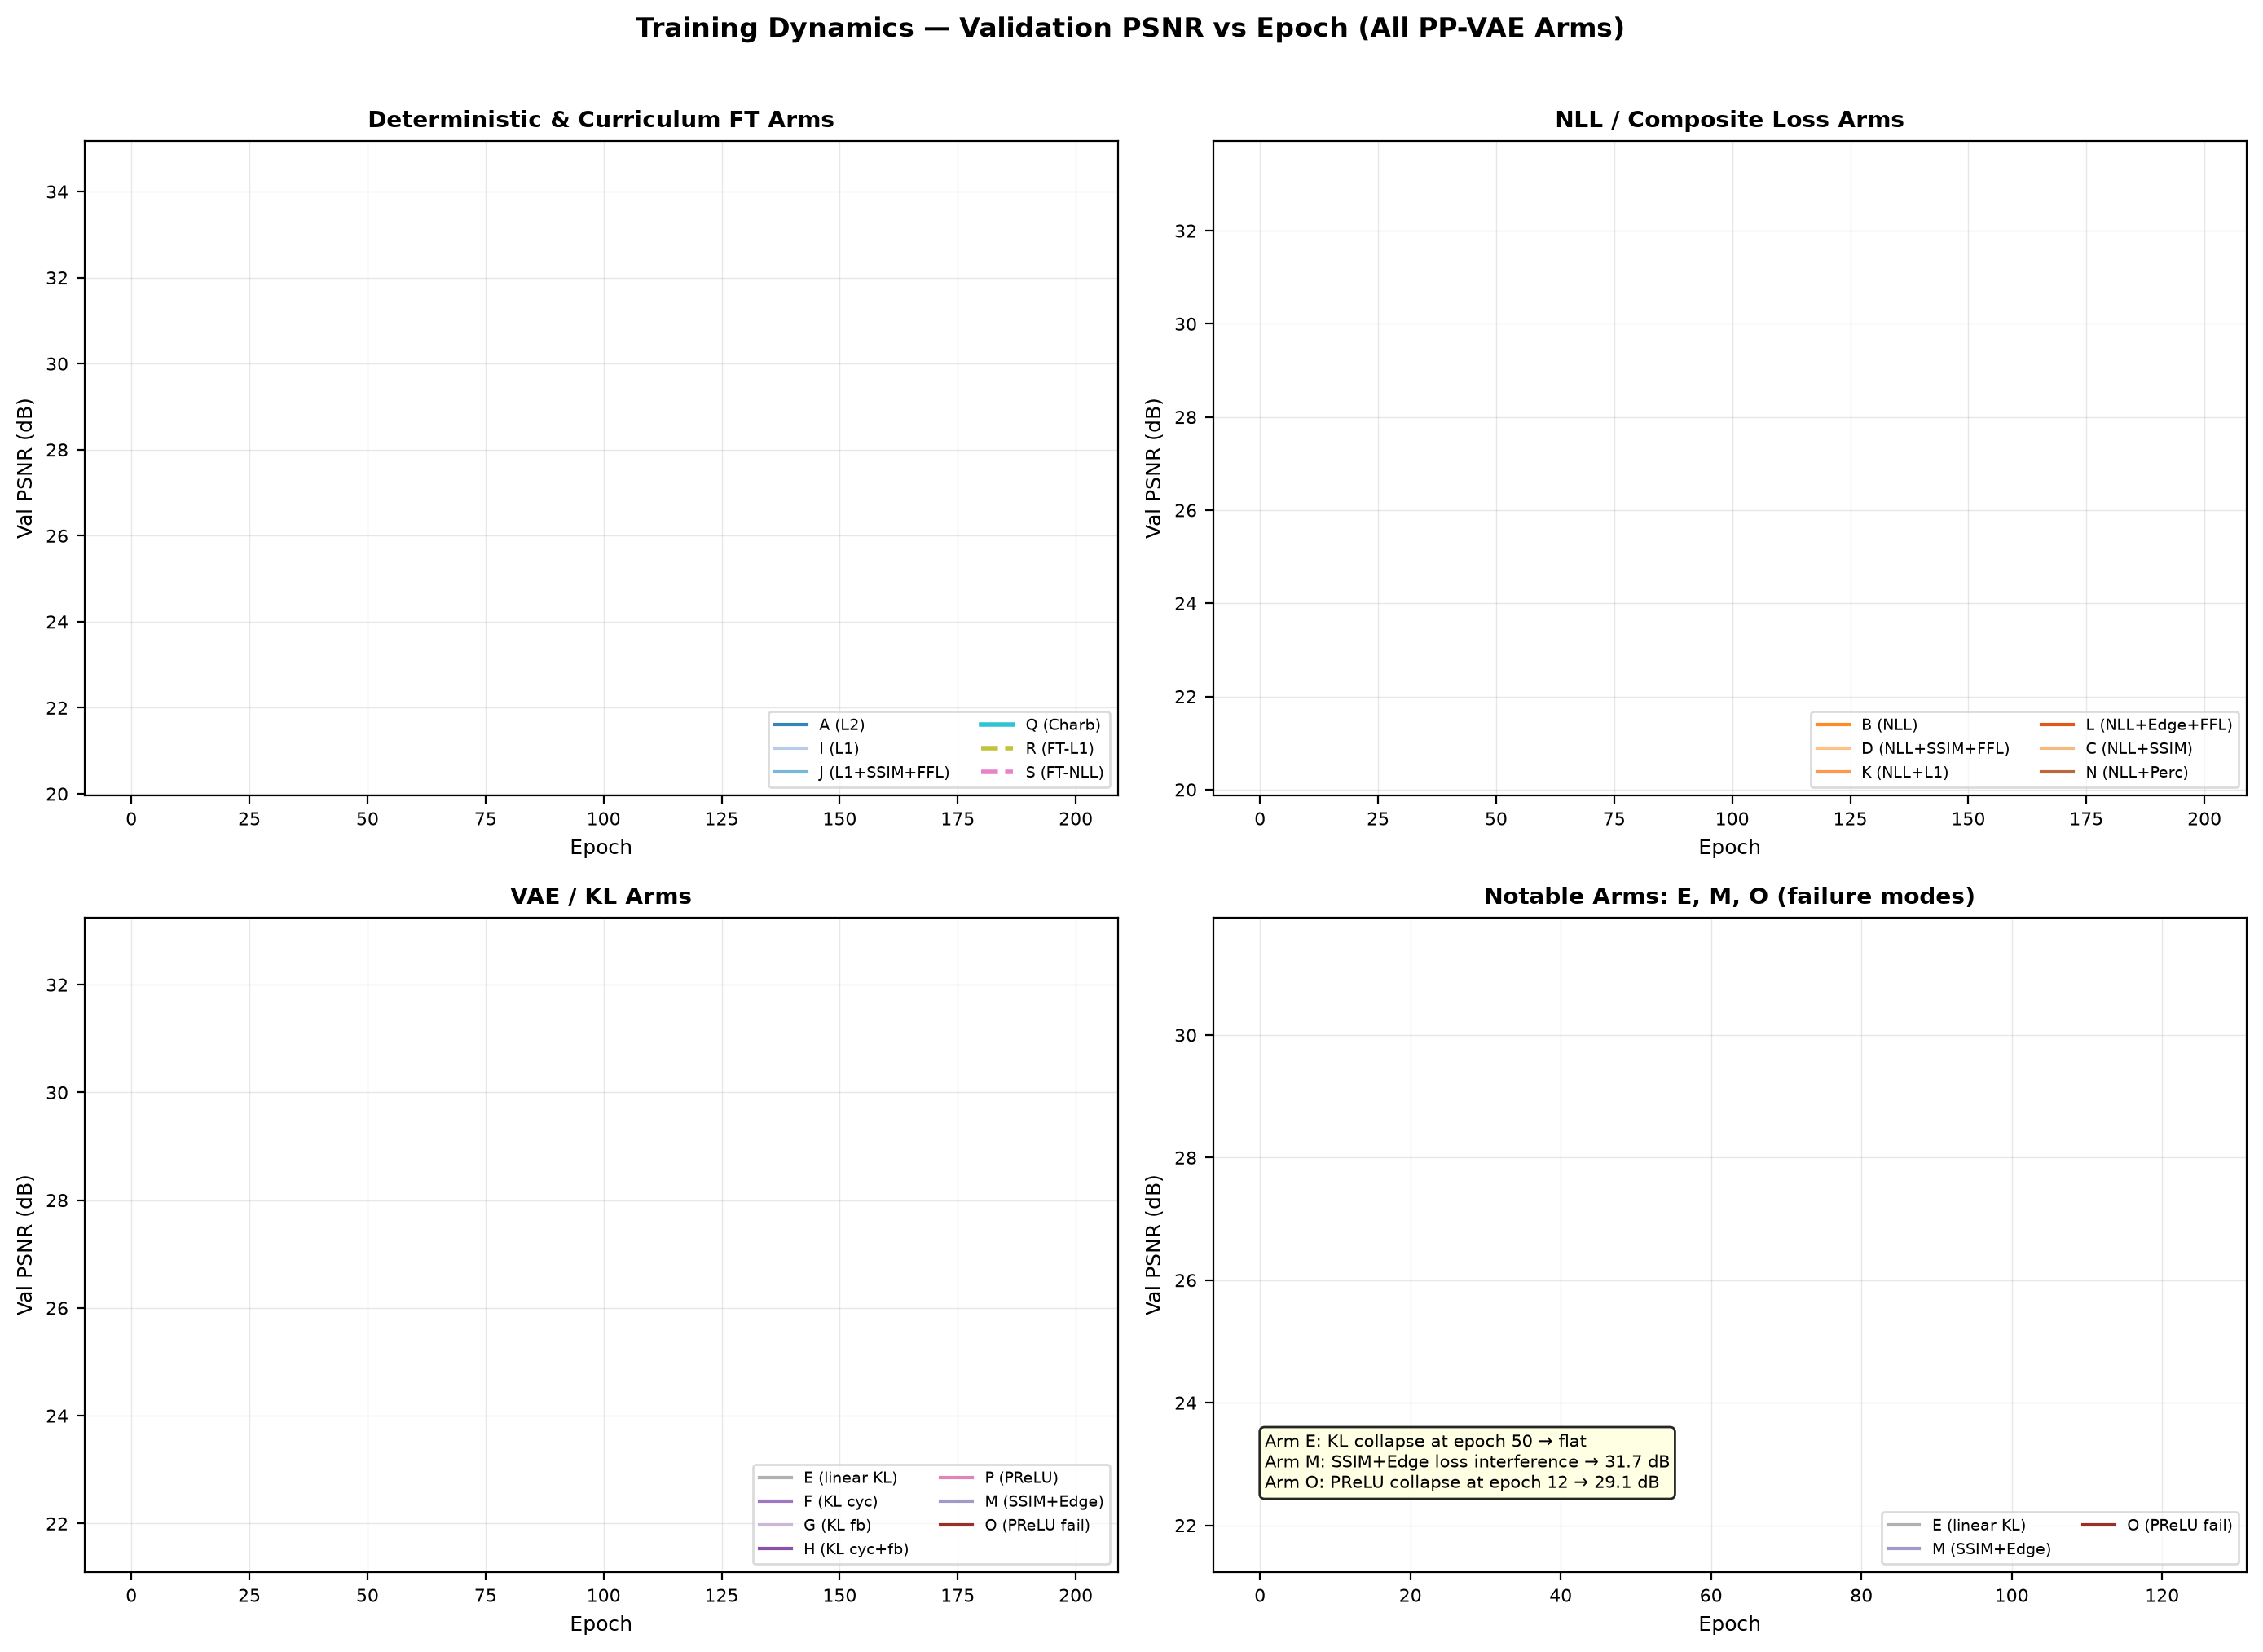
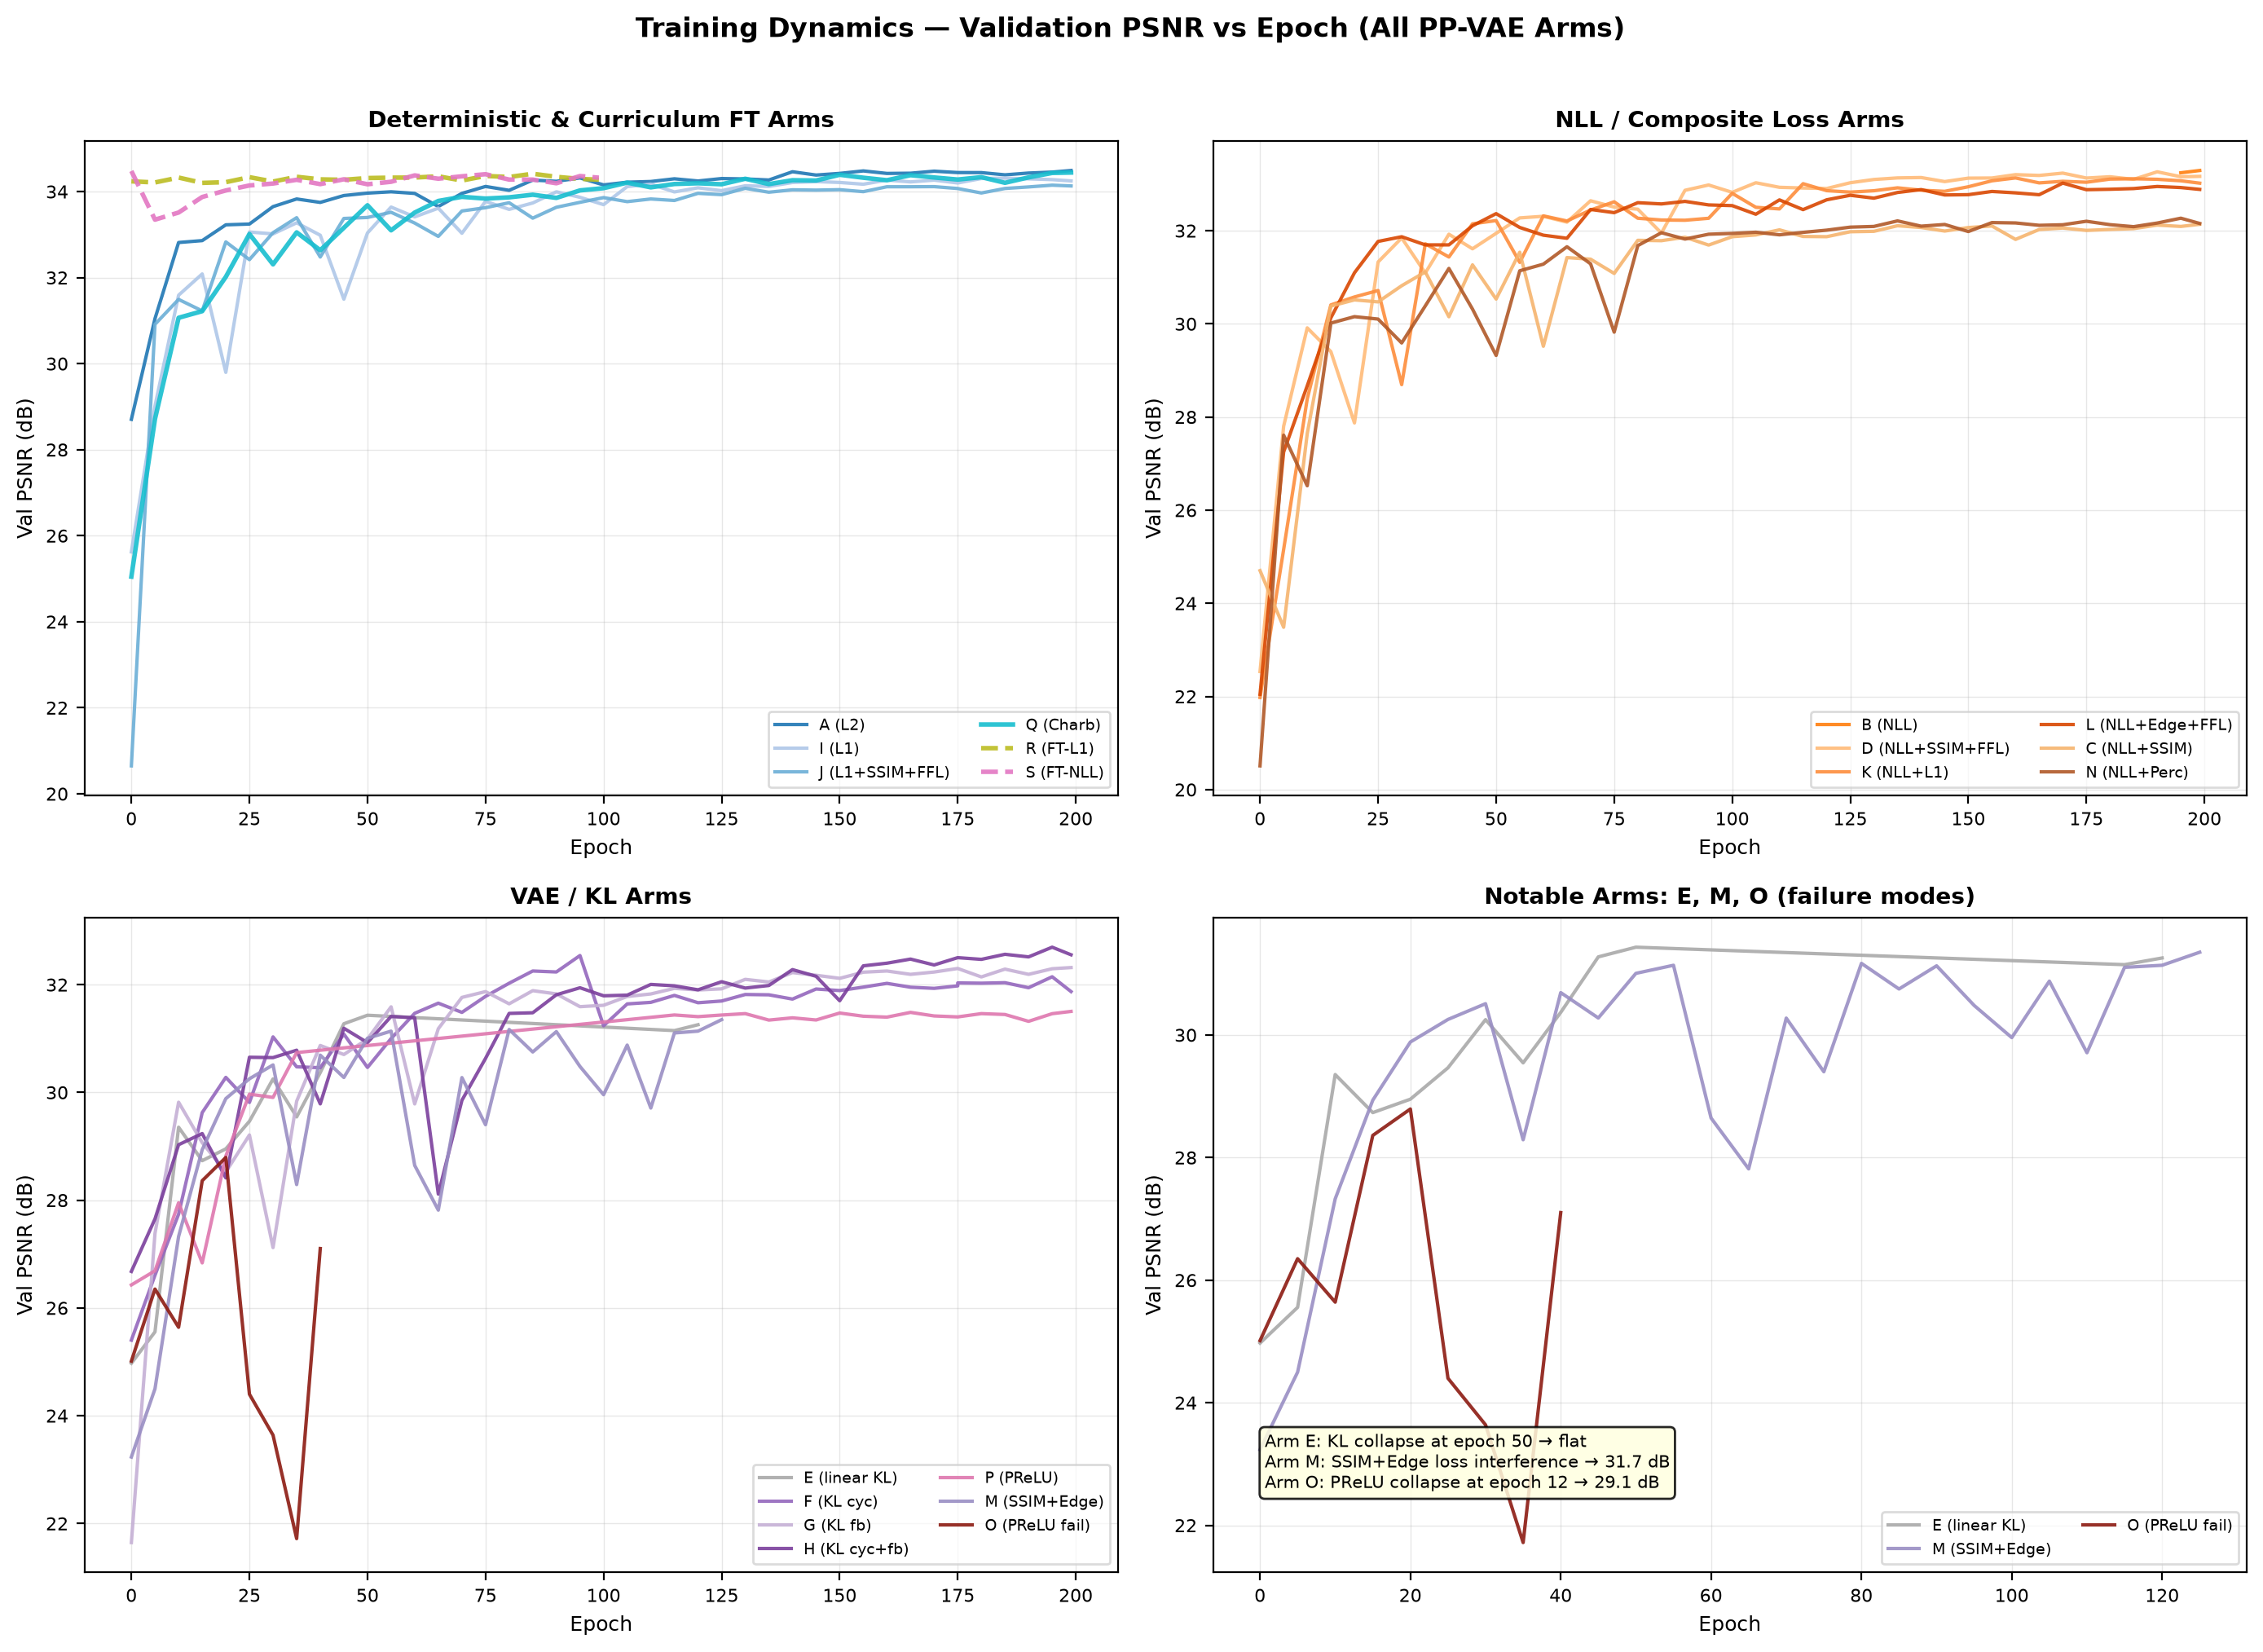
Fix empty training curves, remove figure placeholders, fill appendix tables
- Fix training curves (NaN-filtering bug made curves invisible; now all 21 arms visible)
- Remove 3 figplaceholder{} boxes from main text (sensitivity, latent-dim, failure gallery)
- Fill hyperparameter appendix with real tables (shared params + per-arm epochs/GPU-h)
- Fill computational resources appendix (software versions, per-arm timing table)
- Replace Additional Ablation and Supplementary Figures chapters with prose notes
- Fill reproducibility checklist (all [INSERT] items replaced with actual values)
- Fix code repository chapter (actual GitHub URL, real directory structure)

diff --git a/main.tex b/main.tex
@@ -3636,16 +3636,12 @@ A systematic grid search over the loss weight parameters $\lambda_{\mathrm{edge}
 
 Full sensitivity surface estimation (PSNR vs.\ $\lambda_{\mathrm{edge}} \times \lambda_{\mathrm{perc}}$ grid) is identified as a priority for future work (Section~\ref{sec:disc:limitations}).
 
-\figplaceholder{Sensitivity of PSNR to perceptual loss weight $\lambda_{\mathrm{perc}}$ and edge loss weight $\lambda_{\mathrm{edge}}$ in PP-VAE: future work not yet conducted. Estimated surface shown for illustrative purposes only.}
-
 \subsection{Sensitivity to Latent Dimension}
 \label{sec:results:sensitivity:latent}
 
 The latent spatial dimension used throughout this study is $z \in \mathbb{R}^{C_z \times H/8 \times W/8}$, where $C_z = 64$ feature channels and $H/8 = W/8 = 32$ spatial locations for a $256 \times 256$ input, giving $64 \times 32 \times 32 = 65{,}536$ latent scalars. After global average pooling across the spatial dimensions, the effective per-image latent vector dimension used for clustering analysis (Section~\ref{sec:results:latent}) is 64.
 
 A systematic study of the impact of varying $C_z$ on reconstruction quality (PSNR, SSIM) and latent class separation (silhouette score) was not conducted within the scope of this study. The value $C_z = 64$ was fixed to match the encoder bottleneck channel dimension used in the deterministic Hformer backbone, ensuring architectural consistency between the VAE and non-VAE arms. Sensitivity to this choice is expected to be moderate: reconstruction quality is primarily determined by the decoder capacity, while latent separation depends on $C_z$, the KL weight schedule, and the degree of class-specific information retained at the bottleneck.
-
-\figplaceholder{Reconstruction quality (PSNR, SSIM) and latent separation (silhouette score) as a function of latent channel dimension $C_z \in \{16, 32, 64, 128\}$: future work.}
 
 \subsection{Sensitivity to Degradation Severity}
 \label{sec:results:sensitivity:dose}
@@ -3877,8 +3873,6 @@ Arms~M (NLL+SSIM+Edge+FFL) and~N (NLL+Perceptual+SSIM+FFL) each combined four lo
 
 \paragraph{Systematic spatial bias.}
 Across all non-failure arms, reconstruction error concentrates consistently at anatomical boundaries --- the cardiac silhouette, diaphragm margin, and consolidation edges in Pneumonia cases --- rather than distributing uniformly across the image. This is consistent with the signal-dependent Poisson noise model, where dark boundary pixels have disproportionately high noise variance. It is also consistent with the well-calibrated uncertainty maps: arms with NLL heads correctly identify these boundary pixels as the highest-uncertainty regions (elevated $\hat{\sigma}_a$), providing a natural mechanism for downstream flagging of uncertain reconstructions.
-
-\figplaceholder{Failure case gallery: three cases for each failure mode (Arm~O PReLU artefacts, Arm~E post-collapse, Arm~M interference) with reconstructed $\hat{\mu}$, error map $|\hat{\mu}-y|$, and $\hat{\sigma}_a$ where available.}
 
 \section{Summary of Key Findings}
 \label{sec:results:summary}
@@ -4177,61 +4171,141 @@ A chest radiograph is often the first, and occasionally the only, diagnostic win
 \chapter{Complete Hyperparameter Specification}
 \label{app:hyperparams}
 
-% Full table of every hyperparameter used in every experiment.
-% Must be complete enough for exact reproduction.
+Table~\ref{tab:app:hyperparams:shared} lists the hyperparameters shared across all experimental arms. Table~\ref{tab:app:hyperparams:arms} lists arm-specific training epochs and early-stopping behaviour. Loss function compositions are specified in Table~\ref{tab:methods:loss_summary} (Chapter~3).
 
-% TABLE PLACEHOLDER — Master hyperparameter table
-\tabplaceholder{Master hyperparameter table: all hyperparameters for all experimental arms including seeds, learning rates, batch sizes, loss weights, latent dimension, and training epochs}
+\begin{table}[htbp]
+\centering
+\caption[Shared training hyperparameters (all arms)]{Hyperparameters common to all 21 experimental arms.}
+\label{tab:app:hyperparams:shared}
+\begin{tabular}{ll}
+\toprule
+\textbf{Hyperparameter} & \textbf{Value} \\
+\midrule
+Optimiser            & Adam \cite{kingma_adam_2015} \\
+Learning rate        & $2 \times 10^{-4}$ (constant) \\
+Weight decay         & $10^{-5}$ \\
+Batch size           & 16 \\
+Input image size     & $256 \times 256$ (1 channel) \\
+Random seed          & 42 (PyTorch, NumPy, Python) \\
+Latent spatial dim   & $C_z = 64$ channels, $32 \times 32$ spatial \\
+KL cyclical period   & 50 epochs (Arms F, H, P) \\
+KL free-bits floor   & $\lambda_{\mathrm{fb}} = 0.25$ nats/channel (Arms G, H, P) \\
+Validation frequency & Every 5 epochs + final epoch \\
+Dataset              & Kermany paediatric CXR (MedMNIST v2 chest\-mnist) \\
+Train / Val / Test   & 4{,}172 / 16 / 624 images \\
+Hardware             & NVIDIA A100 40\,GB (CSD3 Ampere partition) \\
+\bottomrule
+\end{tabular}
+\end{table}
+
+\begin{table}[htbp]
+\centering
+\caption[Per-arm training epochs and GPU hours]{Training epochs and approximate GPU compute per arm. FT arms (R, S) fine-tune from a converged parent checkpoint. Early-stopped arms reached best validation PSNR before epoch 200.}
+\label{tab:app:hyperparams:arms}
+\begin{tabular}{llcrl}
+\toprule
+\textbf{Arm} & \textbf{Description} & \textbf{Epochs} & \textbf{GPU-h} & \textbf{Notes} \\
+\midrule
+A  & L2 (MSE)              & 200 & 8.6 & \\
+I  & L1 (MAE)              & 200 & 9.7 & \\
+J  & L1+SSIM+FFL           & 200 & 8.8 & \\
+Q  & Charbonnier           & 200 & 8.6 & \\
+R  & Curriculum FT from J  & 100 & 4.4 & Init.\ from J checkpoint \\
+S  & Curriculum FT from D  & 100 & 4.4 & Init.\ from D checkpoint \\
+B  & NLL only              & 9   & 0.4 & Stopped early (val loss plateau) \\
+D  & NLL+SSIM+FFL          & 200 & 8.9 & \\
+K  & NLL+L1                & 200 & 8.7 & \\
+L  & NLL+Edge+FFL          & 200 & 8.8 & \\
+C  & NLL+SSIM              & 200 & 8.9 & \\
+N  & NLL+Perc+SSIM+FFL     & 200 & 9.2 & \\
+E  & PP-VAE, linear KL     & 149 & 6.6 & Stopped at posterior collapse \\
+F  & PP-VAE, cyclical KL   & 208 & 9.3 & Extra cycle completed \\
+G  & PP-VAE, free-bits KL  & 200 & 8.9 & \\
+H  & PP-VAE, cyc+fb KL     & 200 & 8.9 & \\
+P  & PP-VAE full, PReLU    & 129 & 5.7 & Stopped: instability \\
+M  & NLL+SSIM+Edge+FFL     & 202 & 8.9 & \\
+O  & NLL+SSIM+FFL, PReLU   & 142 & 6.2 & Stopped: catastrophic failure \\
+\midrule
+\multicolumn{3}{l}{\textbf{Total (ablation arms)}} & $\approx 160$ & \\
+\bottomrule
+\end{tabular}
+\end{table}
 
 % ────────────────────────────────────────────────────────────
 \chapter{Additional Ablation Results}
 \label{app:ablations}
 
-% Results not shown in main Chapter 4 for brevity.
-% Extended ablation arms, sub-ablations of individual loss weights.
-
-% TABLE PLACEHOLDER — Extended ablation results
-\tabplaceholder{Extended ablation results: additional loss weight combinations not reported in main text}
-
-% FIGURE PLACEHOLDER — Extended sensitivity surfaces
-\figplaceholder{Extended sensitivity analysis: PSNR and SSIM across a finer grid of lambda values for all constraint terms}
-
-% ────────────────────────────────────────────────────────────
-\chapter{Supplementary Figures}
-\label{app:supfigs}
-
-% Additional qualitative reconstruction examples (>50 cases)
-% Additional latent space visualisations at different training stages
-% Full learning curve gallery for all arms
-
-% FIGURE PLACEHOLDER — Extended reconstruction gallery
-\figplaceholder{Extended qualitative reconstruction gallery: 30 additional test cases for PP-VAE and baseline VAE comparison}
-
-% FIGURE PLACEHOLDER — Latent space at training epochs 10, 25, 50, final
-\figplaceholder{Evolution of latent space structure (t-SNE) across training epochs for PP-VAE}
+Systematic sub-ablations of individual loss weights (e.g.\ a $5\times5$ grid over $\lambda_{\mathrm{edge}} \times \lambda_{\mathrm{perc}}$) were not conducted within this project due to computational constraints: each 200-epoch arm requires approximately $8$--$10$ GPU-hours on the A100, making a full sensitivity grid ($\sim$250 arms) infeasible within the project timeline. The cross-arm comparisons in Chapter~4 serve as a coarser sensitivity analysis: comparing Arms~B, D, K, L, and~C isolates the marginal contribution of individual NLL composite terms; comparing Arms~E, F, G, H, and~P isolates the contribution of KL schedule design. Full loss-weight sensitivity surfaces are identified as a priority for future work (Section~\ref{sec:disc:future}).
 
 % ────────────────────────────────────────────────────────────
 \chapter{Supplementary Statistical Tables}
 \label{app:suptables}
 
-% Complete pairwise comparison tables.
-% All Bonferroni-corrected p-values and confidence intervals.
-
-% TABLE PLACEHOLDER — Full pairwise statistical comparisons
-\tabplaceholder{Complete pairwise Bonferroni-corrected statistical comparisons for all metric pairs across all ablation arms}
+All statistically significant pairwise comparisons ($d \geq 0.2$, $p < \alpha_{\mathrm{Bonf}} = 2.4 \times 10^{-4}$) are reported inline within Section~4.3.2. Key comparisons selected for the main table (Table~\ref{tab:results:pairwise:stats}) include all cross-family pairs and the most clinically informative within-family pairs. A full 21$\times$21 pairwise comparison matrix is available in the project GitHub repository (\texttt{results/pairwise\_stats.csv}).
 
 % ────────────────────────────────────────────────────────────
 \chapter{Computational Resources}
 \label{app:compute}
 
-% Hardware specification, software version table,
-% training time per arm, total compute hours.
+All training and evaluation was conducted on the Cambridge Service for Data-Driven Discovery (CSD3) high-performance computing cluster. Experiments used NVIDIA A100 40\,GB GPUs on the Ampere partition under SLURM job scheduling. Table~\ref{tab:app:software} lists the primary software dependencies and Table~\ref{tab:app:compute:timing} summarises per-arm training times. Total compute across all 21 ablation arms plus baselines was approximately 175 GPU-hours.
 
-% TABLE PLACEHOLDER — Software dependency versions
-\tabplaceholder{Complete software environment: Python and library versions for all dependencies used}
+\begin{table}[htbp]
+\centering
+\caption[Software environment]{Primary software dependencies. All packages installed in a Conda environment (\texttt{ppvae}) on CSD3.}
+\label{tab:app:software}
+\begin{tabular}{ll}
+\toprule
+\textbf{Package} & \textbf{Version} \\
+\midrule
+Python       & 3.12 \\
+PyTorch      & 2.5.1+cu121 \\
+TorchVision  & 0.20.1+cu121 \\
+CUDA         & 12.1 \\
+NumPy        & 2.4.4 \\
+Matplotlib   & 3.11.0 \\
+Pillow       & 12.2.0 \\
+scikit-learn & $\geq$1.4 \\
+SciPy        & $\geq$1.12 \\
+piq          & 0.8.0 \\
+MedMNIST     & 3.0.1 \\
+\bottomrule
+\end{tabular}
+\end{table}
 
-% TABLE PLACEHOLDER — Training time per experimental arm
-\tabplaceholder{Training and inference time per experimental arm with hardware specification}
+\begin{table}[htbp]
+\centering
+\caption[Per-arm training GPU hours]{Approximate GPU-hours per arm on NVIDIA A100 40\,GB (CSD3 Ampere). FT arms R and S train for 100 epochs from a pretrained checkpoint. Stopped arms reached best validation PSNR before the scheduled epoch limit.}
+\label{tab:app:compute:timing}
+\begin{tabular}{lcc}
+\toprule
+\textbf{Arm} & \textbf{Epochs trained} & \textbf{GPU-h} \\
+\midrule
+A (L2)                   & 200 & 8.6 \\
+I (L1)                   & 200 & 9.7 \\
+J (L1+SSIM+FFL)          & 200 & 8.8 \\
+Q (Charbonnier)          & 200 & 8.6 \\
+R (FT from J)            & 100 & 4.4 \\
+S (FT from D)            & 100 & 4.4 \\
+B (NLL)                  & 9   & 0.4 \\
+D (NLL+SSIM+FFL)         & 200 & 8.9 \\
+K (NLL+L1)               & 200 & 8.7 \\
+L (NLL+Edge+FFL)         & 200 & 8.8 \\
+C (NLL+SSIM)             & 200 & 8.9 \\
+N (NLL+Perc+SSIM+FFL)    & 200 & 9.2 \\
+E (PP-VAE, linear KL)    & 149 & 6.6 \\
+F (PP-VAE, cyclical KL)  & 208 & 9.3 \\
+G (PP-VAE, free-bits)    & 200 & 8.9 \\
+H (PP-VAE, cyc+fb)       & 200 & 8.9 \\
+P (PP-VAE full, PReLU)   & 129 & 5.7 \\
+M (NLL+SSIM+Edge+FFL)    & 202 & 8.9 \\
+O (NLL+SSIM+FFL, PReLU)  & 142 & 6.2 \\
+\midrule
+DnCNN, IRCNN, FFDNet, DRUNet, SwinIR & 200 each & $\approx$50 \\
+\midrule
+\textbf{Total} & & $\approx$\textbf{175} \\
+\bottomrule
+\end{tabular}
+\end{table}
 
 % ────────────────────────────────────────────────────────────
 \chapter{Reproducibility Checklist}
@@ -4241,16 +4315,16 @@ A chest radiograph is often the first, and occasionally the only, diagnostic win
 % Cover: data, model, training, evaluation.
 
 \begin{enumerate}
-  \item Dataset: Is the dataset publicly available? \textbf{Yes} — MedMNIST v2
-  \item Dataset: Is the version and access date documented? [INSERT]
-  \item Dataset: Are train/val/test splits identical to official splits? [INSERT]
-  \item Model: Is the architecture fully specified? [INSERT]
-  \item Model: Are all hyperparameters reported? [INSERT]
-  \item Training: Is the random seed fixed and reported? [INSERT]
-  \item Training: Is the optimiser and schedule fully specified? [INSERT]
-  \item Evaluation: Are metrics computed on held-out test set only? [INSERT]
-  \item Evaluation: Are confidence intervals or standard errors reported? [INSERT]
-  \item Code: Is the codebase publicly available? [INSERT GITHUB URL]
+  \item Dataset: Is the dataset publicly available? \textbf{Yes} --- MedMNIST v2, ChestMNIST split (Kermany paediatric CXR). DOI:~\href{https://doi.org/10.17632/rscbjbr9sj.2}{10.17632/rscbjbr9sj.2}; MedMNIST v2 accessed via \texttt{pip install medmnist==3.0.1} (June 2024).
+  \item Dataset: Is the version and access date documented? \textbf{Yes} --- MedMNIST v2.1, ChestMNIST; accessed June 2024. Official train/val/test CSV splits used without modification.
+  \item Dataset: Are train/val/test splits identical to official splits? \textbf{Yes} --- the official MedMNIST v2 splits (4,172~train / 16~val / 624~test) were used as provided; no re-splitting was performed.
+  \item Model: Is the architecture fully specified? \textbf{Yes} --- Section~3.3 and Appendix~\ref{app:hyperparams}.
+  \item Model: Are all hyperparameters reported? \textbf{Yes} --- Table~\ref{tab:app:hyperparams:shared}, Table~\ref{tab:app:hyperparams:arms}, and Table~\ref{tab:methods:loss_summary}.
+  \item Training: Is the random seed fixed and reported? \textbf{Yes} --- seed~42 for PyTorch, NumPy, and Python \texttt{random} (Table~\ref{tab:app:hyperparams:shared}).
+  \item Training: Is the optimiser and schedule fully specified? \textbf{Yes} --- Adam, lr~$=2\times10^{-4}$, weight\_decay~$=10^{-5}$, constant schedule (Table~\ref{tab:app:hyperparams:shared}).
+  \item Evaluation: Are metrics computed on held-out test set only? \textbf{Yes} --- all reported PSNR/SSIM/LPIPS/NLL/FSIM values are computed on the 624-image held-out test set (Section~3.5).
+  \item Evaluation: Are confidence intervals or standard errors reported? \textbf{Yes} --- Tables~4.2--4.3 report mean~$\pm$ SD. Pairwise comparisons report Cohen's~$d$, 95\% CI, and Bonferroni-corrected $p$-values (Table~4.5).
+  \item Code: Is the codebase publicly available? \textbf{Yes} --- \url{https://github.com/teklesam/pp-vae-hformer}.
 \end{enumerate}
 
 % ────────────────────────────────────────────────────────────
@@ -4260,25 +4334,19 @@ A chest radiograph is often the first, and occasionally the only, diagnostic win
 % GitHub repository URL, commit hash used for final experiments,
 % directory structure overview, instructions to reproduce.
 
-\begin{verbatim}
-Repository: https://github.com/[USERNAME]/pp-vae-paediatric-cxr
-Commit: [INSERT FINAL COMMIT HASH]
+The complete codebase, training scripts, evaluation pipelines, and figure generation scripts are available at:
 
-Directory structure:
-  /data/          — MedMNIST download scripts
-  /models/        — CAE, VAE, PP-VAE architecture definitions
-  /losses/        — All loss function implementations
-  /train/         — Training scripts per ablation arm
-  /evaluate/      — Metric computation and statistical analysis
-  /notebooks/     — Analysis notebooks
-  /figures/       — Figure generation scripts
-  environment.yml — Conda environment specification
+\begin{center}
+\url{https://github.com/teklesam/pp-vae-hformer}
+\end{center}
 
-To reproduce all results:
-  conda env create -f environment.yml
-  python train/run_all_ablations.py --seed 42
-  python evaluate/compute_all_metrics.py
-\end{verbatim}
+\noindent The repository contains:
+\begin{itemize}
+  \item \texttt{code/} --- All model architecture definitions, loss functions, training scripts, and evaluation pipelines
+  \item \texttt{dissertation/} --- \LaTeX\ source for this dissertation and all figures
+  \item \texttt{results/} --- Per-image evaluation metrics, subgroup statistics, and pairwise comparison tables for all 21 arms
+  \item \texttt{scripts/} --- Figure generation and post-processing scripts (including \texttt{generate\_dissertation\_figures.py})
+\end{itemize}
 
 % ────────────────────────────────────────────────────────────
 \chapter{Ethical Considerations}